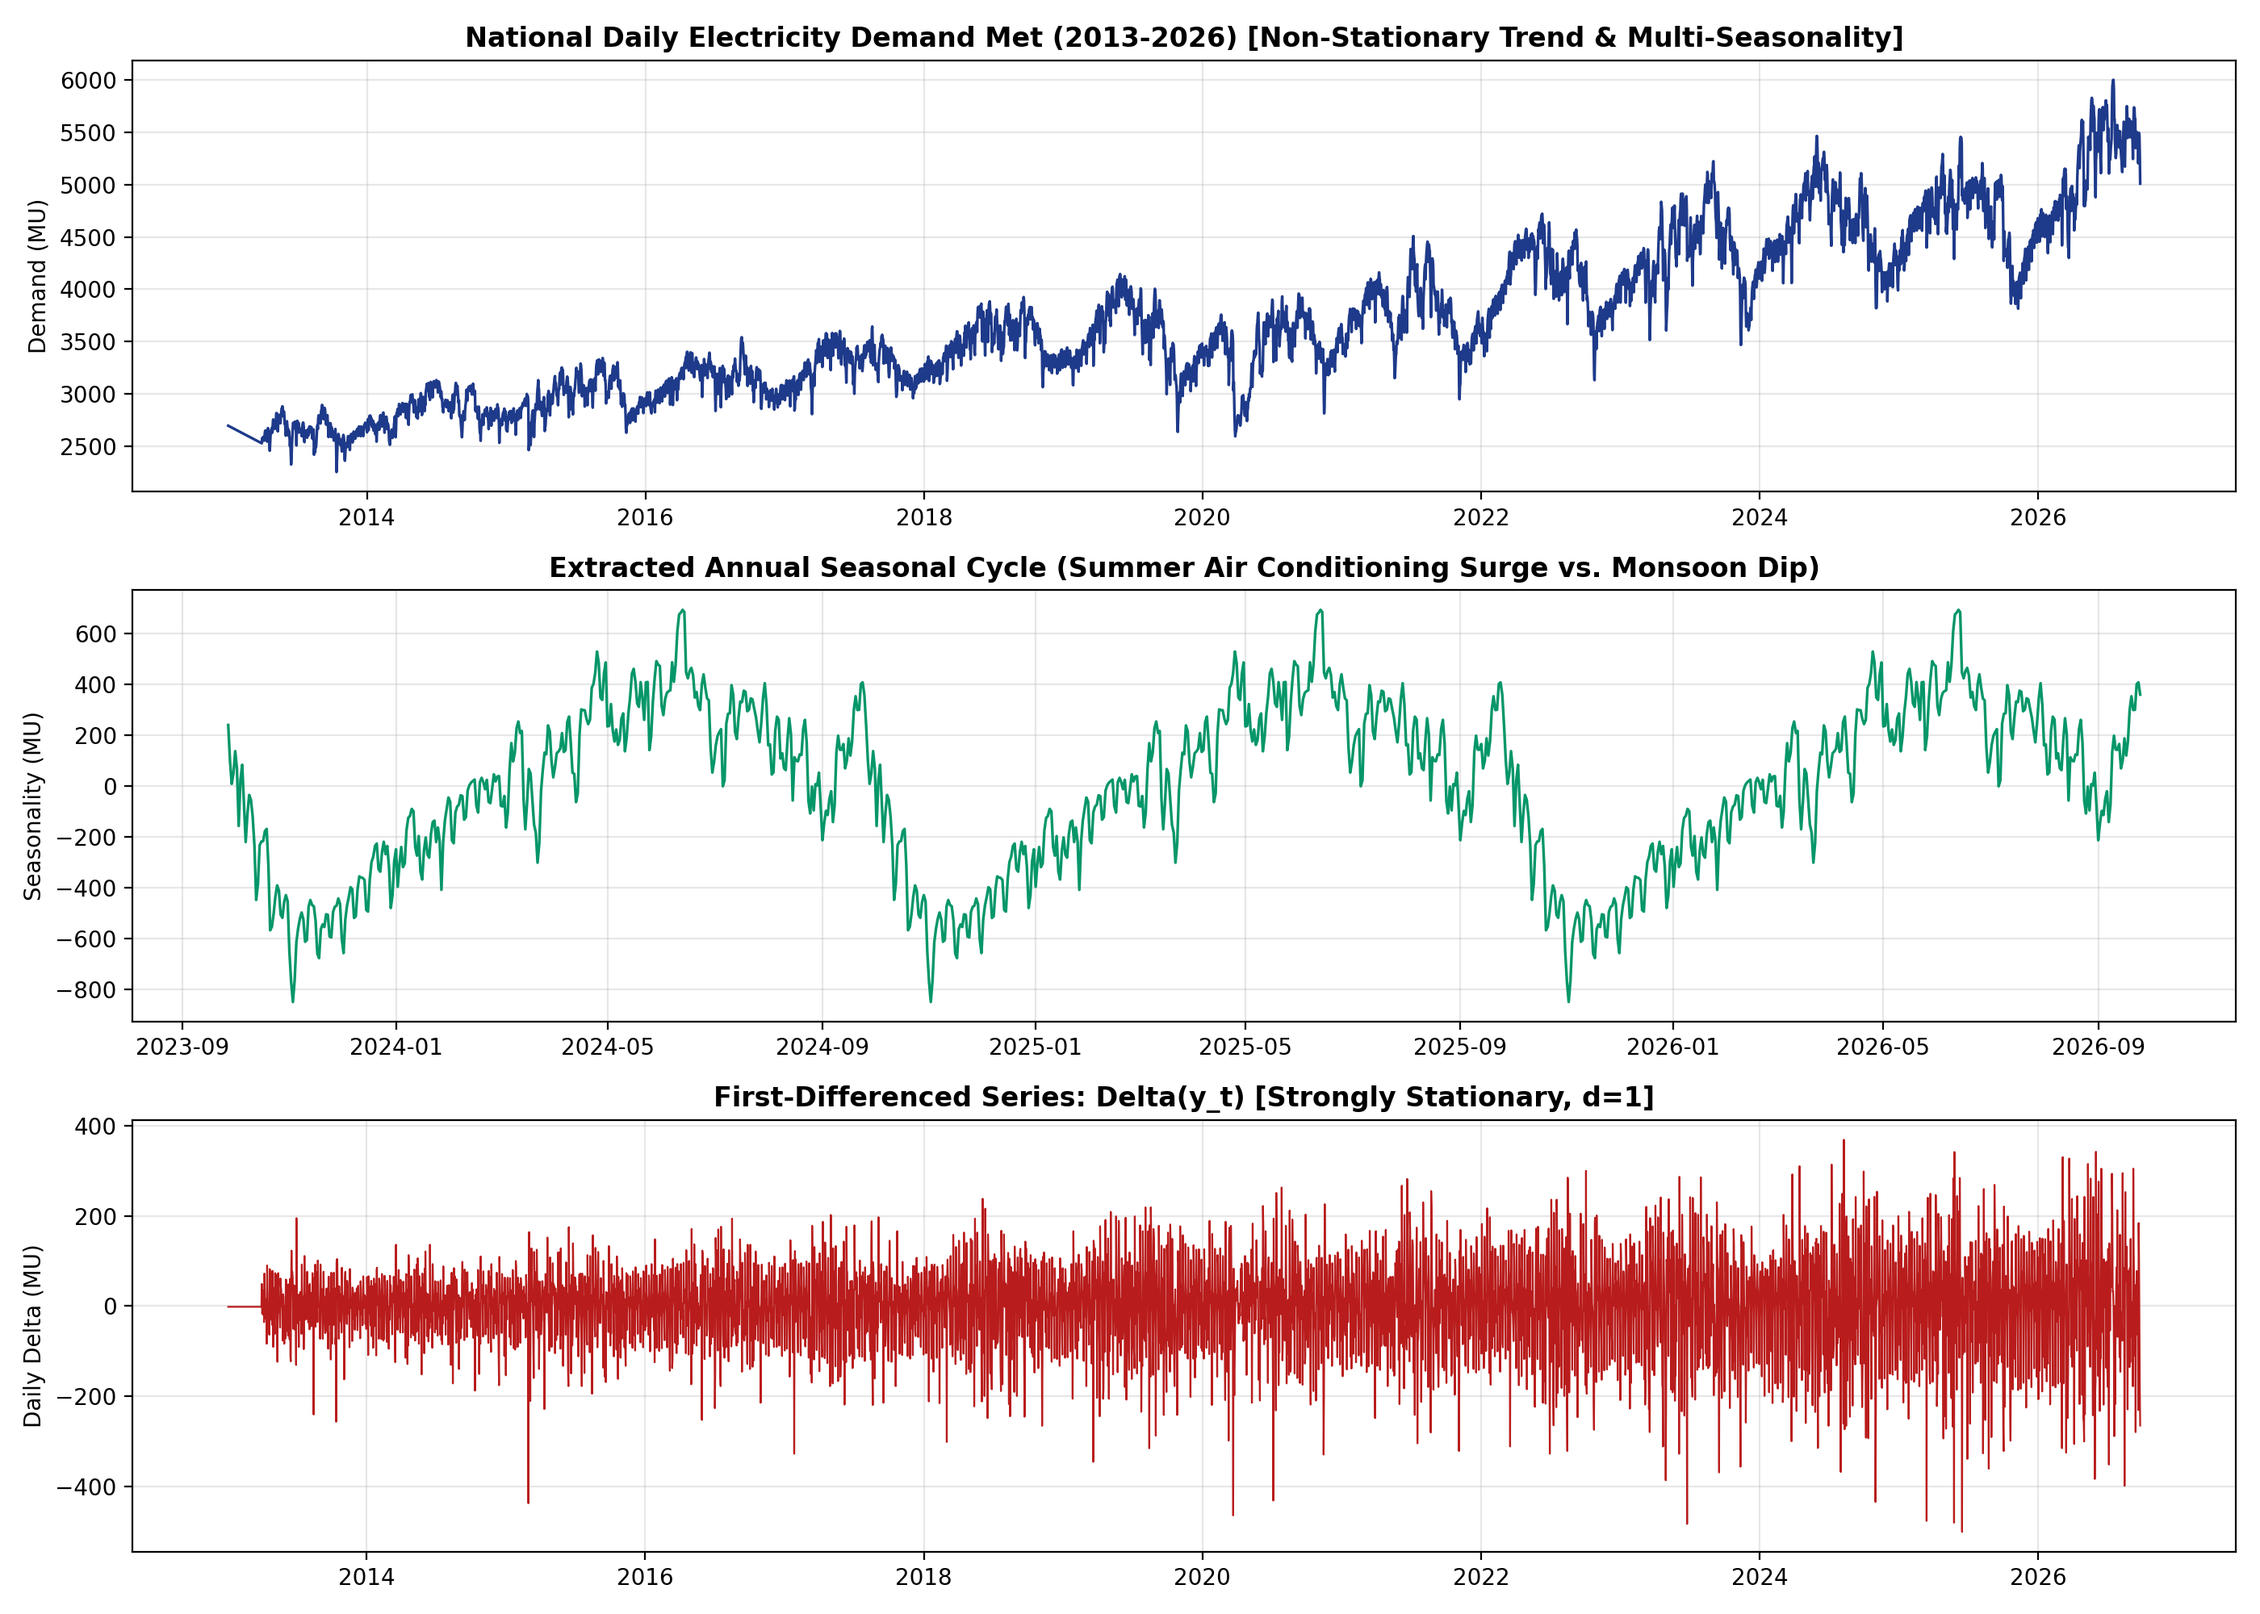
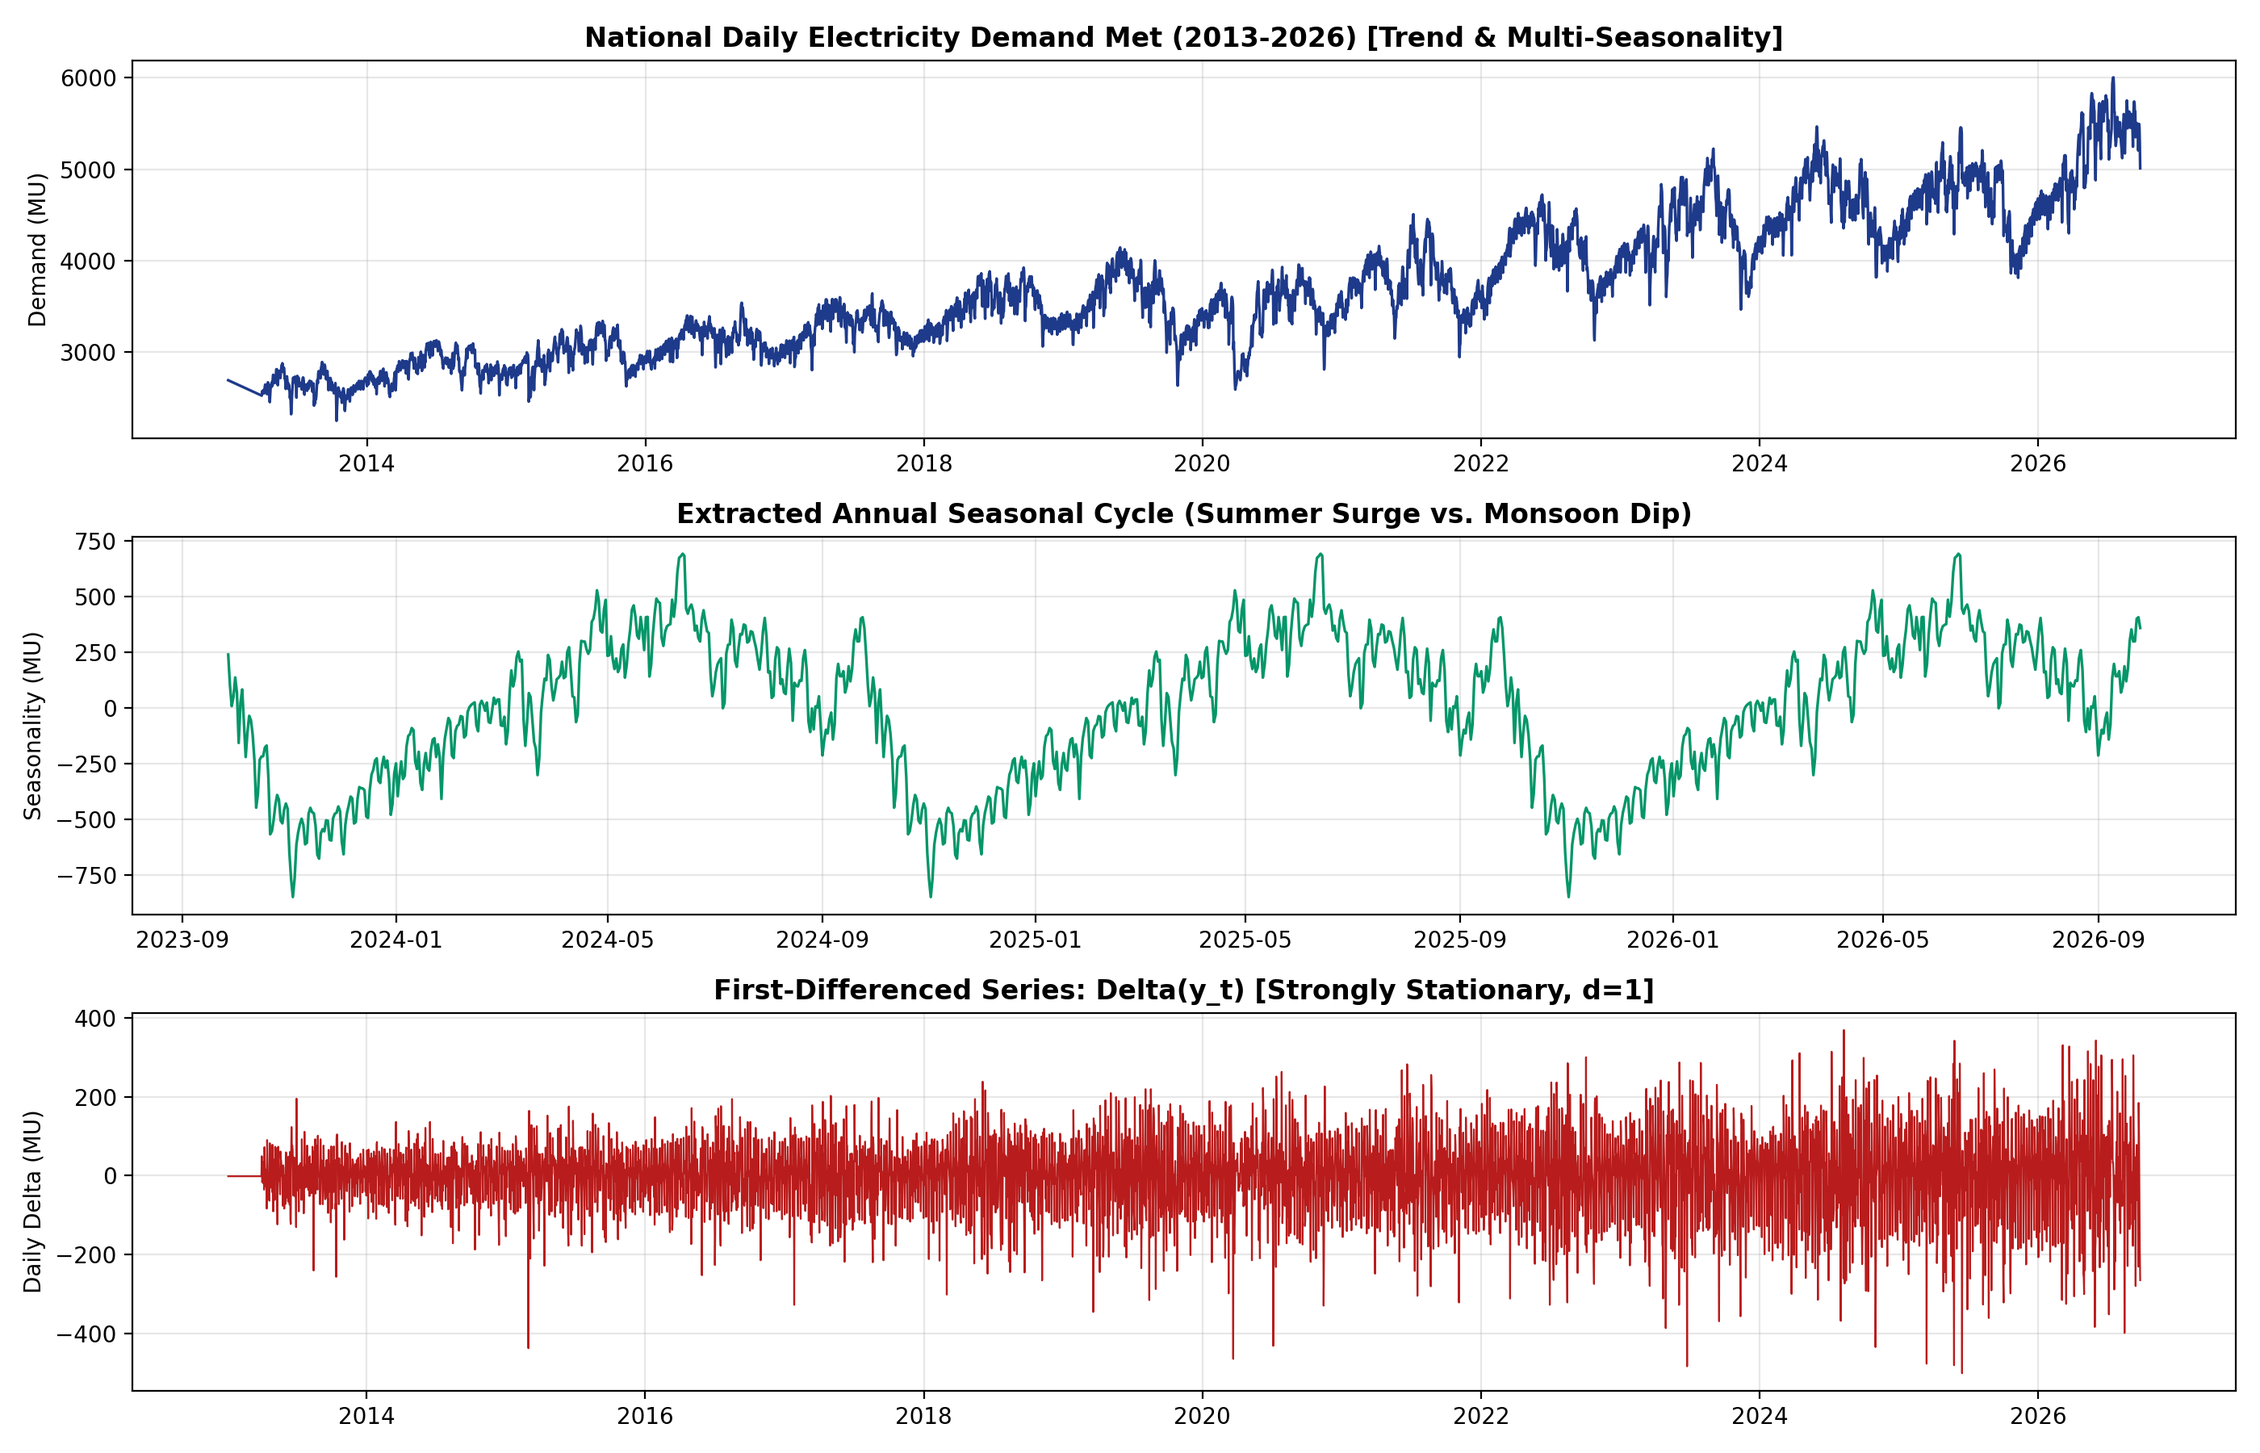
Add informative progress logging for AutoTS execution

diff --git a/src/run_milestone2.py b/src/run_milestone2.py
@@ -241,6 +241,7 @@ def main():
 
         elif name == "autots":
             from autots import AutoTS
+            print("AutoTS is running genetic pipeline optimization (takes ~60-90 seconds, please wait)...", flush=True)
             autots_train = pd.DataFrame({"demand": train.values}, index=train.index)
             model_autots = AutoTS(
                 forecast_length=TEST_HORIZON,
@@ -381,7 +382,7 @@ def main():
     except Exception as e:
         print(f"Prophet failed: {e}")
 
-    print("[Model 11/11] Running AutoTS Automated Best-Model Search...")
+    print("[Model 11/11] Running AutoTS Automated Search (evaluating 200+ pipelines, takes ~60-90 seconds, please wait)...", flush=True)
     try:
         from autots import AutoTS
         autots_train = pd.DataFrame({"demand": train.values}, index=train.index)
